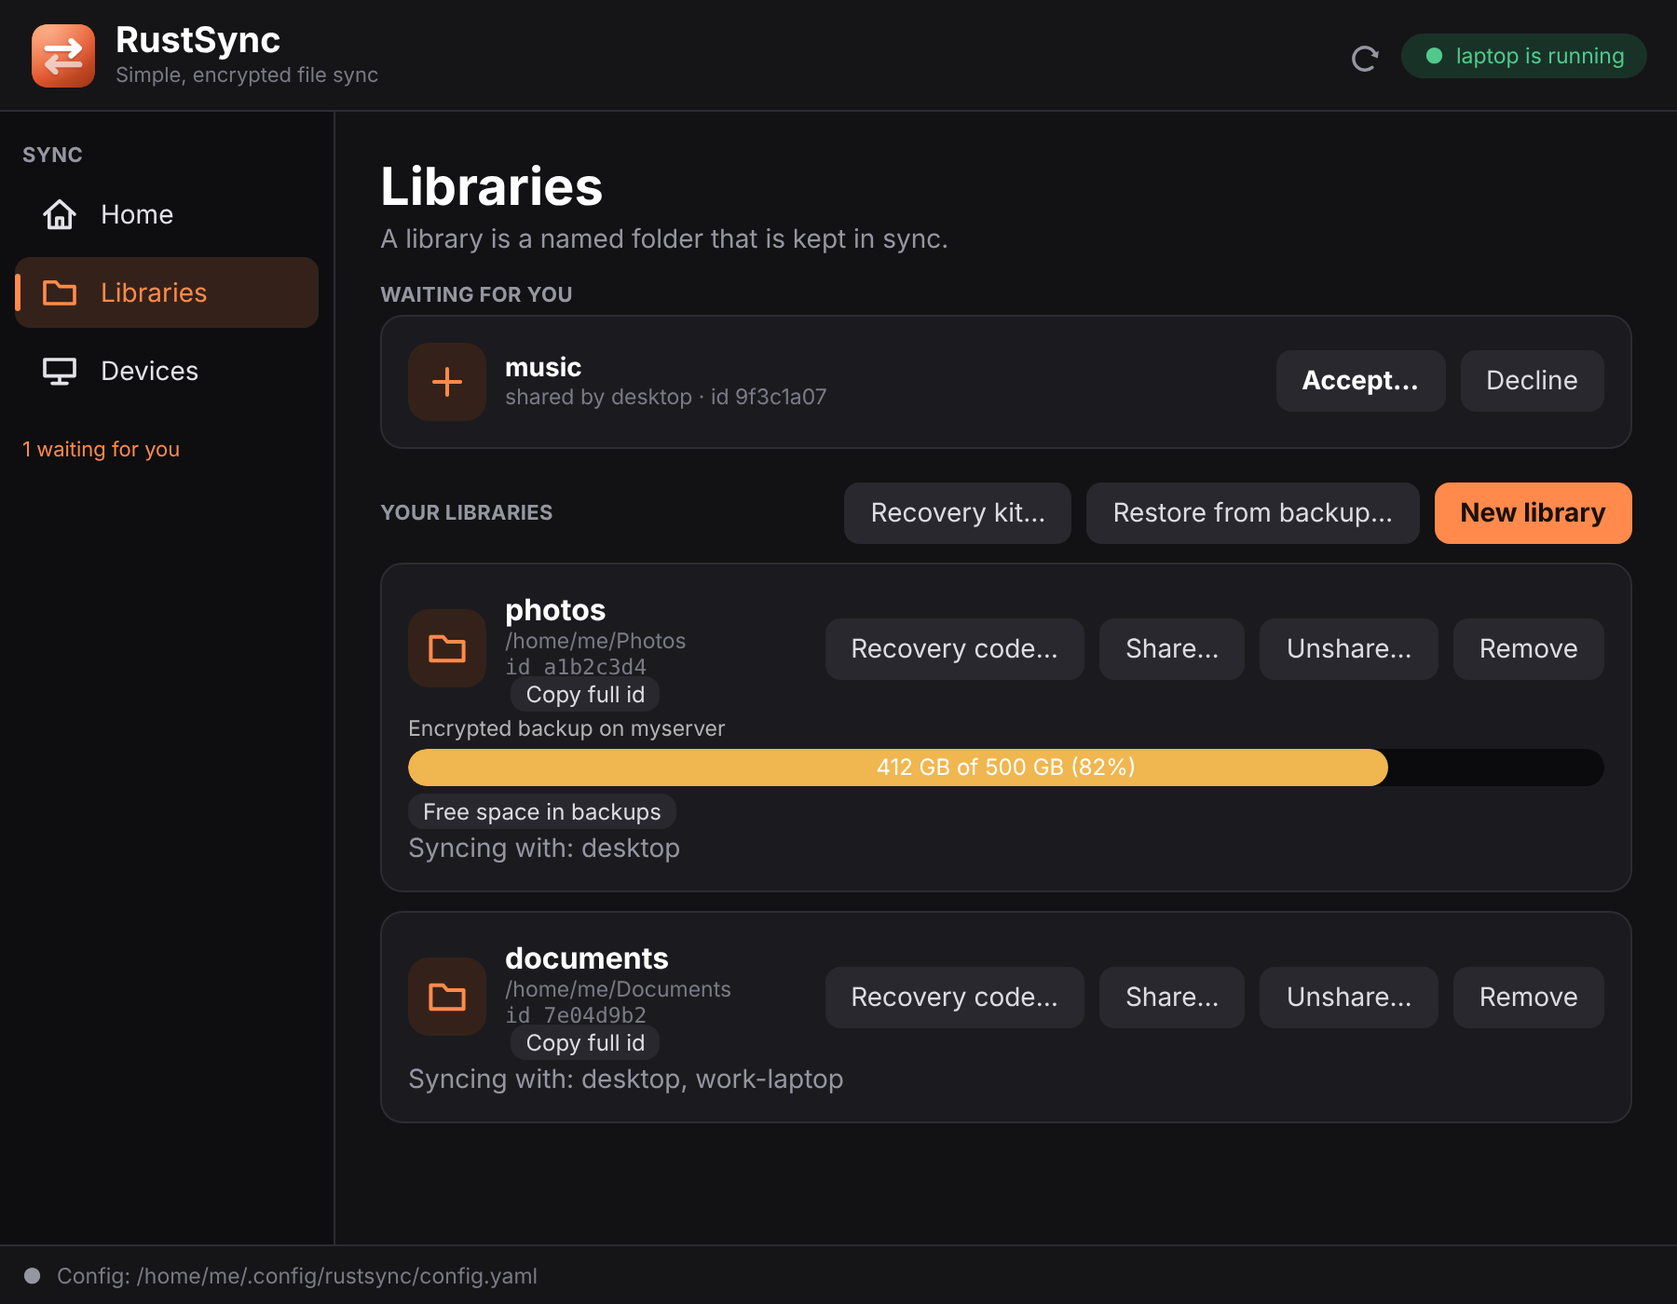
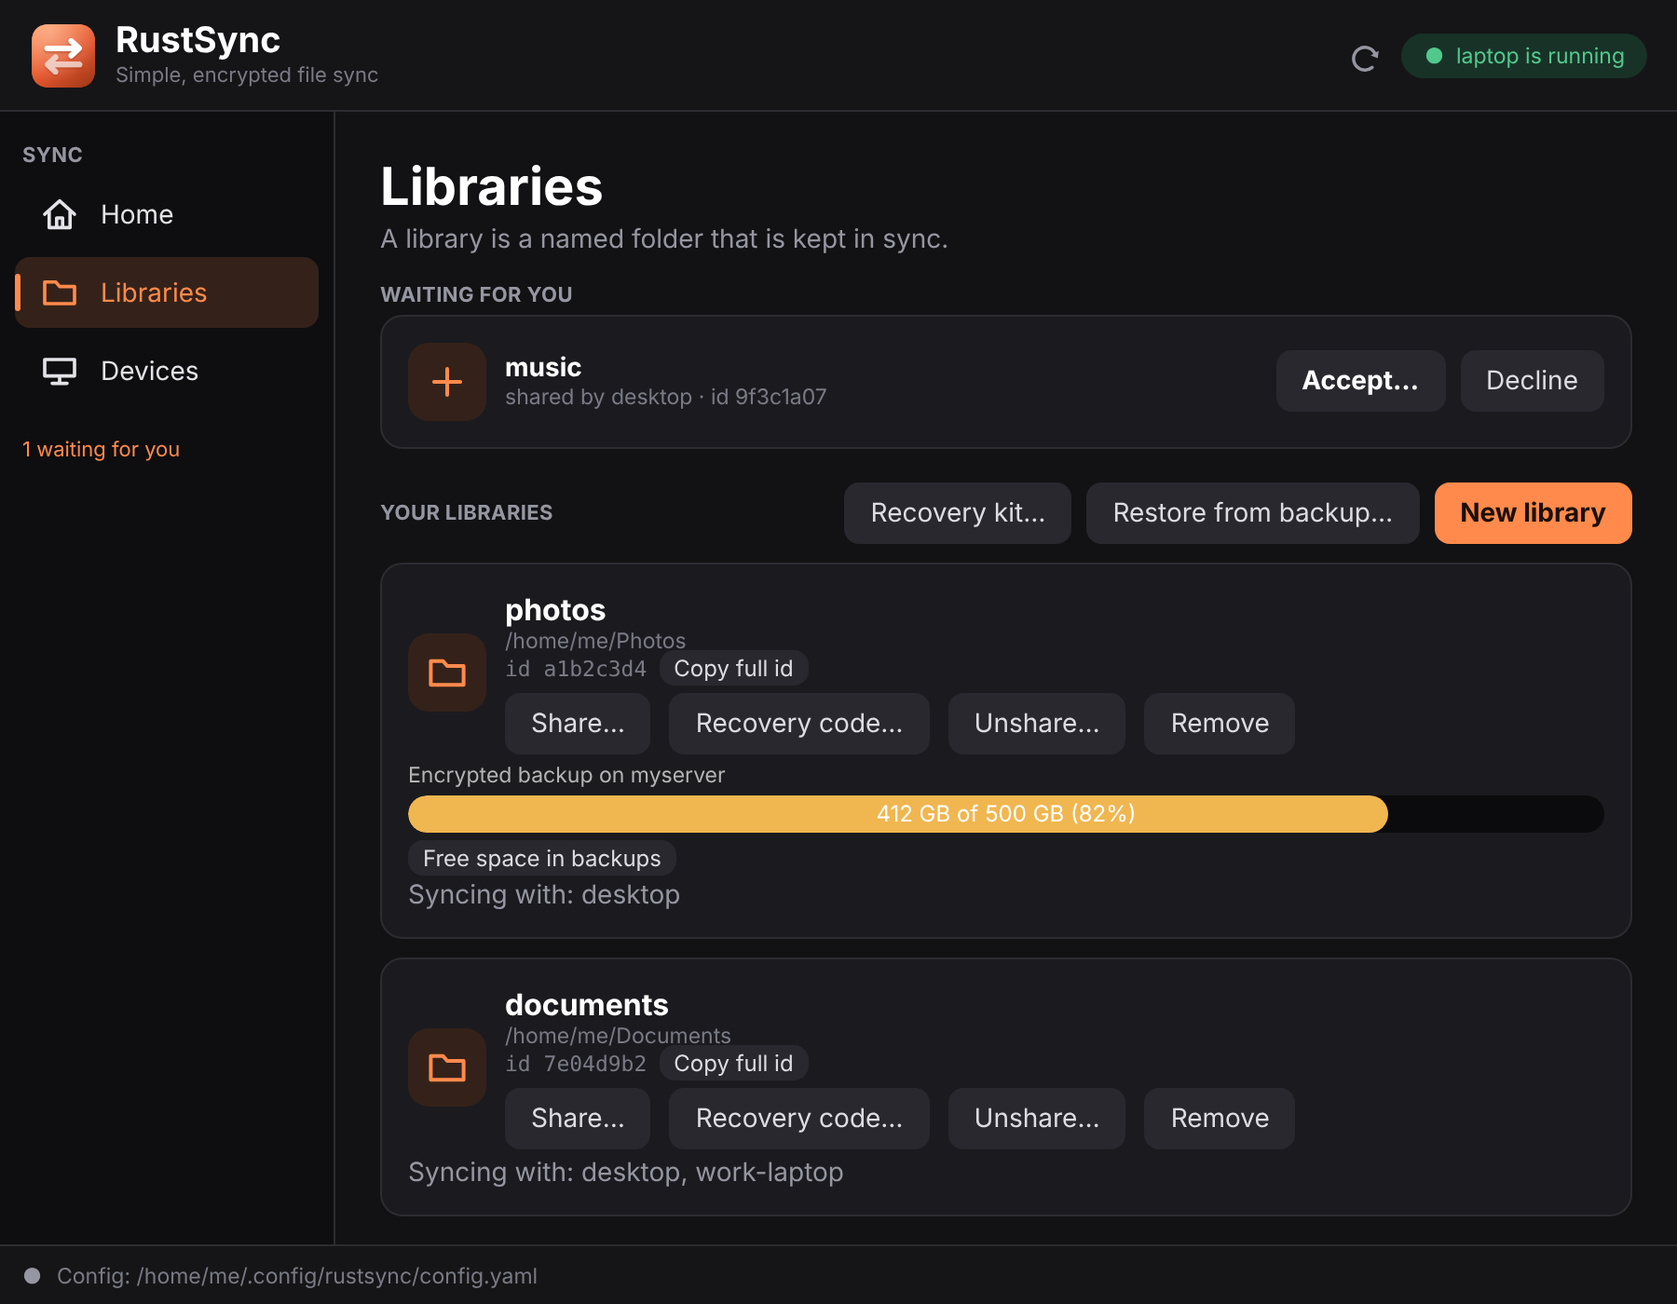
adding ip modify support

diff --git a/android/app/src/main/java/app/rustsync/Ui.kt b/android/app/src/main/java/app/rustsync/Ui.kt
@@ -324,6 +324,7 @@ private fun Devices(model: Model, status: Status) {
     var askHost by remember { mutableStateOf(false) }
     var enter by remember { mutableStateOf(false) }
     var forgetting by remember { mutableStateOf<DeviceInfo?>(null) }
+    var readdressing by remember { mutableStateOf<DeviceInfo?>(null) }
     val scan = rememberLauncherForActivityResult(ScanContract()) { result ->
         val text = result.contents
         if (text != null) model.enterCode(text)
@@ -358,7 +359,10 @@ private fun Devices(model: Model, status: Status) {
                             style = MaterialTheme.typography.bodySmall,
                         )
                     }
-                    TextButton(onClick = { forgetting = d }) { Text("Forget") }
+                    Column(horizontalAlignment = Alignment.End) {
+                        TextButton(onClick = { readdressing = d }) { Text("Change address") }
+                        TextButton(onClick = { forgetting = d }) { Text("Forget") }
+                    }
                 }
             }
         }
@@ -418,6 +422,36 @@ private fun Devices(model: Model, status: Status) {
                 ) { Text("Pair") }
             },
             dismissButton = { TextButton(onClick = { enter = false }) { Text("Cancel") } },
+        )
+    }
+
+    readdressing?.let { d ->
+        var addr by remember(d.key) { mutableStateOf(d.addr ?: "") }
+        AlertDialog(
+            onDismissRequest = { readdressing = null },
+            title = { Text("Address of ${d.name}") },
+            text = {
+                Column(verticalArrangement = Arrangement.spacedBy(8.dp)) {
+                    Text("Where this phone reaches it. Change it when that device's IP address or name changed.")
+                    OutlinedTextField(
+                        value = addr,
+                        onValueChange = { addr = it },
+                        singleLine = true,
+                        label = { Text("e.g. 192.168.1.20") },
+                    )
+                    Text(
+                        "Add :port if it isn't 3032. Leave it empty if that device always calls this phone.",
+                        style = MaterialTheme.typography.bodySmall,
+                    )
+                }
+            },
+            confirmButton = {
+                TextButton(onClick = {
+                    readdressing = null
+                    model.setAddress(d.key, addr.trim())
+                }) { Text("Save") }
+            },
+            dismissButton = { TextButton(onClick = { readdressing = null }) { Text("Cancel") } },
         )
     }
 

diff --git a/android/app/src/main/java/app/rustsync/Control.kt b/android/app/src/main/java/app/rustsync/Control.kt
@@ -134,6 +134,8 @@ object Req {
     fun join(token: String) = obj("Join", JSONObject().put("token", token))
     fun decision(accept: Boolean) = obj("PairDecision", JSONObject().put("accept", accept))
     fun forget(device: String) = obj("Forget", JSONObject().put("device", device))
+    fun setAddress(device: String, addr: String) =
+        obj("SetAddress", JSONObject().put("device", device).put("addr", addr))
     fun create(name: String, folder: String) = obj("Create", JSONObject().put("name", name).put("folder", folder))
     fun removeLibrary(library: String) = obj("RemoveLibrary", JSONObject().put("library", library))
     fun share(library: String, device: String, backup: Boolean) =

diff --git a/android/app/src/main/java/app/rustsync/Model.kt b/android/app/src/main/java/app/rustsync/Model.kt
@@ -173,6 +173,7 @@ class Model(app: Application) : AndroidViewModel(app) {
     // ---------------------------------------------------------------- everything else
 
     fun forget(device: String) = run(Req.forget(device))
+    fun setAddress(device: String, addr: String) = run(Req.setAddress(device, addr))
     fun createLibrary(name: String, folder: String) = run(Req.create(name, folder))
     fun removeLibrary(id: String) = run(Req.removeLibrary(id))
     fun share(library: String, device: String, backup: Boolean) = run(Req.share(library, device, backup))

diff --git a/src/gui.rs b/src/gui.rs
@@ -35,6 +35,7 @@ enum Request {
     Join { token: String },
     PairDecision { accept: bool },
     Forget { device: String },
+    SetAddress { device: String, addr: String },
     Create { name: String, folder: String },
     RemoveLibrary { library: String },
     Share { library: String, device: String, backup: bool },
@@ -431,6 +432,7 @@ enum Dialog {
     Invite { host: String, code: Option<String>, note: String, error: Option<String>, running: bool, paired: bool },
     Join { code: String, running: bool, error: Option<String>, scanning: bool },
     ConfirmForget { key: String, name: String },
+    Address { key: String, name: String, text: String },
     ConfirmRemove { id: String, name: String },
 }
 
@@ -449,6 +451,7 @@ enum Action {
     StopScan,
     PairDecide { accept: bool },
     Forget { key: String },
+    SetAddress { key: String, addr: String },
     Remove { id: String },
     StartInvite { host: String },
     CancelInvite,
@@ -869,6 +872,7 @@ impl App {
                 self.send_decision(accept);
             }
             Action::Forget { key } => self.run(Request::Forget { device: key }),
+            Action::SetAddress { key, addr } => self.run(Request::SetAddress { device: key, addr }),
             Action::Remove { id } => self.run(Request::RemoveLibrary { library: id }),
             Action::StartInvite { host } => {
                 if let Dialog::Invite { running, code, error, note, .. } = &mut self.dialog {
@@ -1689,47 +1693,48 @@ impl App {
                     tile(ui, Glyph::Folder, ACCENT, ACCENT_SOFT);
                     ui.vertical(|ui| {
                         ui.label(RichText::new(&l.name).strong().size(16.0));
-                        ui.label(RichText::new(&l.folder).small().weak());
-                        ui.horizontal(|ui| {
+                        ui.add(egui::Label::new(RichText::new(&l.folder).small().weak()).wrap());
+                        ui.horizontal_wrapped(|ui| {
                             ui.label(RichText::new(format!("id {}", short(&l.id))).small().weak().monospace());
                             if ui.small_button("Copy full id").clicked() {
                                 ui.ctx().copy_text(l.id.clone());
                                 self.say(true, "Library id copied");
                             }
                         });
-                    });
-                    ui.with_layout(Layout::right_to_left(Align::Center), |ui| {
-                        if ui.button("Remove").clicked() {
-                            self.dialog = Dialog::ConfirmRemove { id: l.id.clone(), name: l.name.clone() };
-                        }
-                        let related = related_devices(l, &status.devices);
-                        if !related.is_empty() && ui.button("Unshare…").clicked() {
-                            self.dialog = Dialog::Unshare {
-                                lib_id: l.id.clone(),
-                                lib_name: l.name.clone(),
-                                candidates: related,
-                                sel: 0,
-                            };
-                        }
-                        if l.backup_only {
-                            if ui.button("Set limit…").clicked() {
-                                let text = if l.quota == 0 { String::new() } else { fmt_size(l.quota).replace(' ', "") };
-                                self.dialog = Dialog::Quota { id: l.id.clone(), name: l.name.clone(), text };
+                        // The buttons sit under the text, and wrap onto more lines when the window is narrow.
+                        ui.horizontal_wrapped(|ui| {
+                            if l.backup_only {
+                                if ui.button("Set limit…").clicked() {
+                                    let text = if l.quota == 0 { String::new() } else { fmt_size(l.quota).replace(' ', "") };
+                                    self.dialog = Dialog::Quota { id: l.id.clone(), name: l.name.clone(), text };
+                                }
+                            } else {
+                                let can_share = !status.devices.is_empty();
+                                if ui.add_enabled(can_share, egui::Button::new("Share…")).clicked() {
+                                    self.dialog = Dialog::Share {
+                                        lib_id: l.id.clone(),
+                                        lib_name: l.name.clone(),
+                                        device: 0,
+                                        backup: false,
+                                    };
+                                }
+                                if ui.button("Recovery code…").clicked() {
+                                    self.perform(Action::ShowRecovery { id: Some(l.id.clone()), name: l.name.clone() });
+                                }
                             }
-                        } else {
-                            let can_share = !status.devices.is_empty();
-                            if ui.add_enabled(can_share, egui::Button::new("Share…")).clicked() {
-                                self.dialog = Dialog::Share {
+                            let related = related_devices(l, &status.devices);
+                            if !related.is_empty() && ui.button("Unshare…").clicked() {
+                                self.dialog = Dialog::Unshare {
                                     lib_id: l.id.clone(),
                                     lib_name: l.name.clone(),
-                                    device: 0,
-                                    backup: false,
+                                    candidates: related,
+                                    sel: 0,
                                 };
                             }
-                            if ui.button("Recovery code…").clicked() {
-                                self.perform(Action::ShowRecovery { id: Some(l.id.clone()), name: l.name.clone() });
+                            if ui.button("Remove").clicked() {
+                                self.dialog = Dialog::ConfirmRemove { id: l.id.clone(), name: l.name.clone() };
                             }
-                        }
+                        });
                     });
                 });
                 if l.backup_only {
@@ -1826,11 +1831,22 @@ impl App {
                         }
                         line.push_str(if d.online { "  ·  online" } else { "  ·  offline" });
                         ui.label(RichText::new(line).small().weak());
-                    });
-                    ui.with_layout(Layout::right_to_left(Align::Center), |ui| {
-                        if ui.button("Forget").clicked() {
-                            self.dialog = Dialog::ConfirmForget { key: d.key.clone(), name: d.name.clone() };
-                        }
+                        ui.horizontal_wrapped(|ui| {
+                            if ui
+                                .button("Change address…")
+                                .on_hover_text("Use this when the other machine's IP address or host name changed")
+                                .clicked()
+                            {
+                                self.dialog = Dialog::Address {
+                                    key: d.key.clone(),
+                                    name: d.name.clone(),
+                                    text: d.addr.clone().unwrap_or_default(),
+                                };
+                            }
+                            if ui.button("Forget").clicked() {
+                                self.dialog = Dialog::ConfirmForget { key: d.key.clone(), name: d.name.clone() };
+                            }
+                        });
                     });
                 });
             });
@@ -2256,6 +2272,31 @@ impl App {
                     ui.horizontal(|ui| {
                         if ui.button(RichText::new("Forget").color(RED)).clicked() {
                             action = Some(Action::Forget { key: key.clone() });
+                            close = true;
+                        }
+                        if ui.button("Cancel").clicked() {
+                            close = true;
+                        }
+                    });
+                });
+            }
+
+            Dialog::Address { key, name, text } => {
+                window("Change a device's address").show(ctx, |ui| {
+                    ui.label(format!("Where this machine reaches {}:", name));
+                    ui.add(
+                        egui::TextEdit::singleline(text)
+                            .hint_text("e.g. 192.168.1.20 or myserver.local:3032")
+                            .desired_width(f32::INFINITY),
+                    );
+                    ui.label(
+                        RichText::new("Just the address, and :port if it isn't 3032. Leave it empty if that machine always calls this one.")
+                            .small()
+                            .weak(),
+                    );
+                    ui.horizontal(|ui| {
+                        if ui.add(primary("Save")).clicked() {
+                            action = Some(Action::SetAddress { key: key.clone(), addr: text.trim().to_string() });
                             close = true;
                         }
                         if ui.button("Cancel").clicked() {

diff --git a/src/sync.rs b/src/sync.rs
@@ -1373,6 +1373,38 @@ impl Node {
         Ok(format!("Forgot {}.", name))
     }
 
+    /// Change the address this machine dials to reach a paired device.
+    pub fn set_device_address(self: &Arc<Self>, key: &str, addr: &str) -> Result<String> {
+        let addr = addr.trim();
+        let target = if addr.is_empty() { None } else { Some(parse_host_port(addr, self.cfg.server.port)?) };
+        let name = {
+            let mut st = self.state.lock().unwrap();
+            let Some(dev) = st.devices.iter_mut().find(|d| d.key == key) else {
+                bail!("no such device");
+            };
+            match &target {
+                Some((h, p)) => {
+                    dev.host = Some(h.clone());
+                    dev.port = Some(*p);
+                }
+                None => {
+                    dev.host = None;
+                    dev.port = None;
+                }
+            }
+            dev.name.clone()
+        };
+        self.save_state();
+        match target {
+            Some((h, p)) => {
+                // Starts dialing if nothing was (the device may have only ever called us).
+                self.ensure_dialer(key);
+                Ok(format!("{} is now reached at {}:{}.", name, h, p))
+            }
+            None => Ok(format!("{} will have to connect to this machine; it is no longer dialed.", name)),
+        }
+    }
+
     pub fn status(&self) -> StatusInfo {
         let online: HashSet<String> = self.sessions.lock().unwrap().keys().cloned().collect();
         let st = self.state.lock().unwrap();
@@ -1613,6 +1645,7 @@ impl Node {
         match req {
             Request::Status => Ok(vec![Reply::Info(self.status()), Reply::Done]),
             Request::Forget { device } => out(self.forget_device(&device)?),
+            Request::SetAddress { device, addr } => out(self.set_device_address(&device, &addr)?),
             Request::Create { name, folder } => out(self.create_library(&name, &folder).await?),
             Request::RemoveLibrary { library } => out(self.remove_library(&library)?),
             Request::Share { library, device, backup } => out(self.share_library(&library, &device, backup)?),
@@ -1633,6 +1666,33 @@ impl Node {
             }
         }
     }
+}
+
+/// `host`, `host:port` or `[v6]:port` -> (host, port); `default_port` when there is none.
+fn parse_host_port(input: &str, default_port: u16) -> Result<(String, u16)> {
+    let s = input.trim();
+    let bad_port = |p: &str| anyhow!("invalid port {:?}", p);
+    if let Some(rest) = s.strip_prefix('[') {
+        let (host, tail) = rest.split_once(']').ok_or_else(|| anyhow!("missing ] in the address"))?;
+        let port = match tail.strip_prefix(':') {
+            Some(p) => p.parse().map_err(|_| bad_port(p))?,
+            None if tail.is_empty() => default_port,
+            None => bail!("cannot read the address {:?}", s),
+        };
+        return Ok((host.to_string(), port));
+    }
+    let (host, port) = match s.matches(':').count() {
+        0 => (s, default_port),
+        1 => {
+            let (h, p) = s.split_once(':').unwrap();
+            (h, p.parse().map_err(|_| bad_port(p))?)
+        }
+        _ => (s, default_port), // a bare IPv6 address
+    };
+    if host.is_empty() || host.contains(char::is_whitespace) || host.contains('/') {
+        bail!("cannot read the address {:?}; use something like 192.168.1.20 or host:3032", s);
+    }
+    Ok((host.to_string(), port))
 }
 
 /// `KEY.SECRET@HOST:PORT` -> (key, one-time secret, host, port)

diff --git a/src/cli.rs b/src/cli.rs
@@ -902,6 +902,28 @@ pub async fn run(config_path: &Path, cmd: Cmd) -> Result<()> {
             call(&ctl, &Request::Forget { device: info.devices[i].key.clone() }).await?;
             Ok(())
         }
+        Cmd::SetAddress { device, address } => {
+            let info = status(&ctl).await?;
+            if info.devices.is_empty() {
+                bail!("no paired devices yet");
+            }
+            let labels: Vec<String> = info
+                .devices
+                .iter()
+                .map(|d| format!("{} ({})", d.name, d.addr.as_deref().unwrap_or("no address: it calls us")))
+                .collect();
+            let devices = &info.devices;
+            let i = pick("device", &labels, device, |i, t| name_or_prefix(&devices[i].name, &devices[i].key, t))?;
+            let addr = match address {
+                Some(a) => a,
+                None => ask(
+                    "New address (host or host:port)",
+                    devices[i].addr.as_deref().unwrap_or(""),
+                )?,
+            };
+            call(&ctl, &Request::SetAddress { device: info.devices[i].key.clone(), addr }).await?;
+            Ok(())
+        }
         Cmd::Create { name, folder } => {
             let name = match name {
                 Some(n) => n,

diff --git a/src/lib.rs b/src/lib.rs
@@ -75,6 +75,13 @@ pub enum Cmd {
         #[arg(short, long)]
         yes: bool,
     },
+    /// Change the address used to reach a paired device (after its IP address changed)
+    SetAddress {
+        /// Number or name of the device (listed if omitted)
+        device: Option<String>,
+        /// New address, `host` or `host:port` (asked if omitted; the current one is the default)
+        address: Option<String>,
+    },
     /// Create a library: a named folder to sync
     Create {
         /// Library name (asked if omitted)

diff --git a/src/proto.rs b/src/proto.rs
@@ -13,6 +13,9 @@ pub enum Request {
     /// want to pair with this device?
     PairDecision { accept: bool },
     Forget { device: String },
+    /// Change where to reach a paired device (`host` or `host:port`; empty clears it, so that
+    /// only the other side dials).
+    SetAddress { device: String, addr: String },
     Create { name: String, folder: String },
     RemoveLibrary { library: String },
     Share { library: String, device: String, backup: bool },

diff --git a/README.md b/README.md
@@ -226,7 +226,8 @@ running yet). It has three pages, and opens on the first:
 - **Libraries**: your libraries, who they're shared with, how much encrypted-backup space is used,
   and offers waiting for you to accept.
 - **Devices**: the machines you've paired and whether they're online, plus *Show a pairing code* and
-  *Enter a pairing code* for adding another.
+  *Enter a pairing code* for adding another. *Change address…* updates where a device is reached
+  when its IP address changes (the Android app has the same button).
 
 Wherever a library needs a folder (*New library*, *Accept…*, *Restore from backup…*), you choose it
 with a **folder browser** instead of typing a path: shortcuts for your home folder and drives, a
@@ -287,6 +288,8 @@ Pairing devices
                       Show a one-time code (and QR code) and wait for another machine to `join`
   join [CODE]         Pair with a machine that is waiting in `invite`
   forget [DEVICE]     Stop syncing with a paired device
+  set-address [DEVICE] [HOST[:PORT]]
+                      Change the address used to reach a paired device (when its IP changed)
 
 Libraries (folders to sync)
   create [NAME] [FOLDER]            Create a library from a folder
